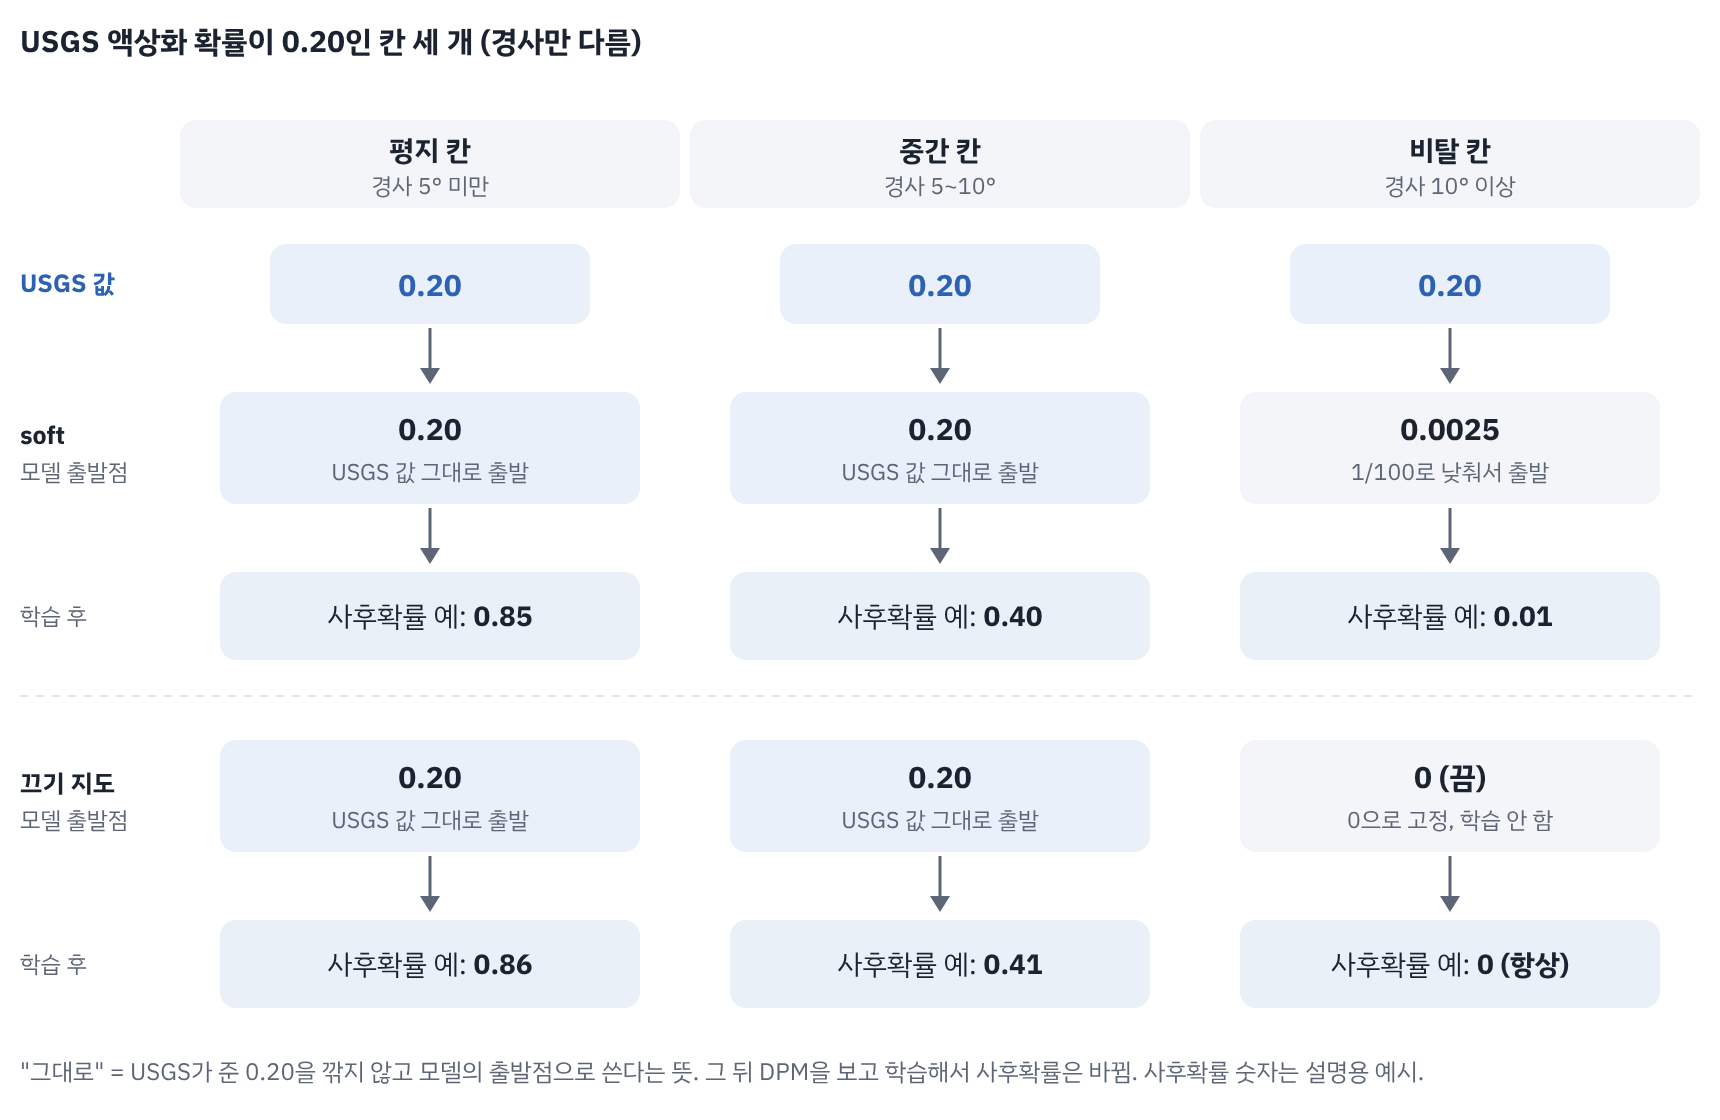
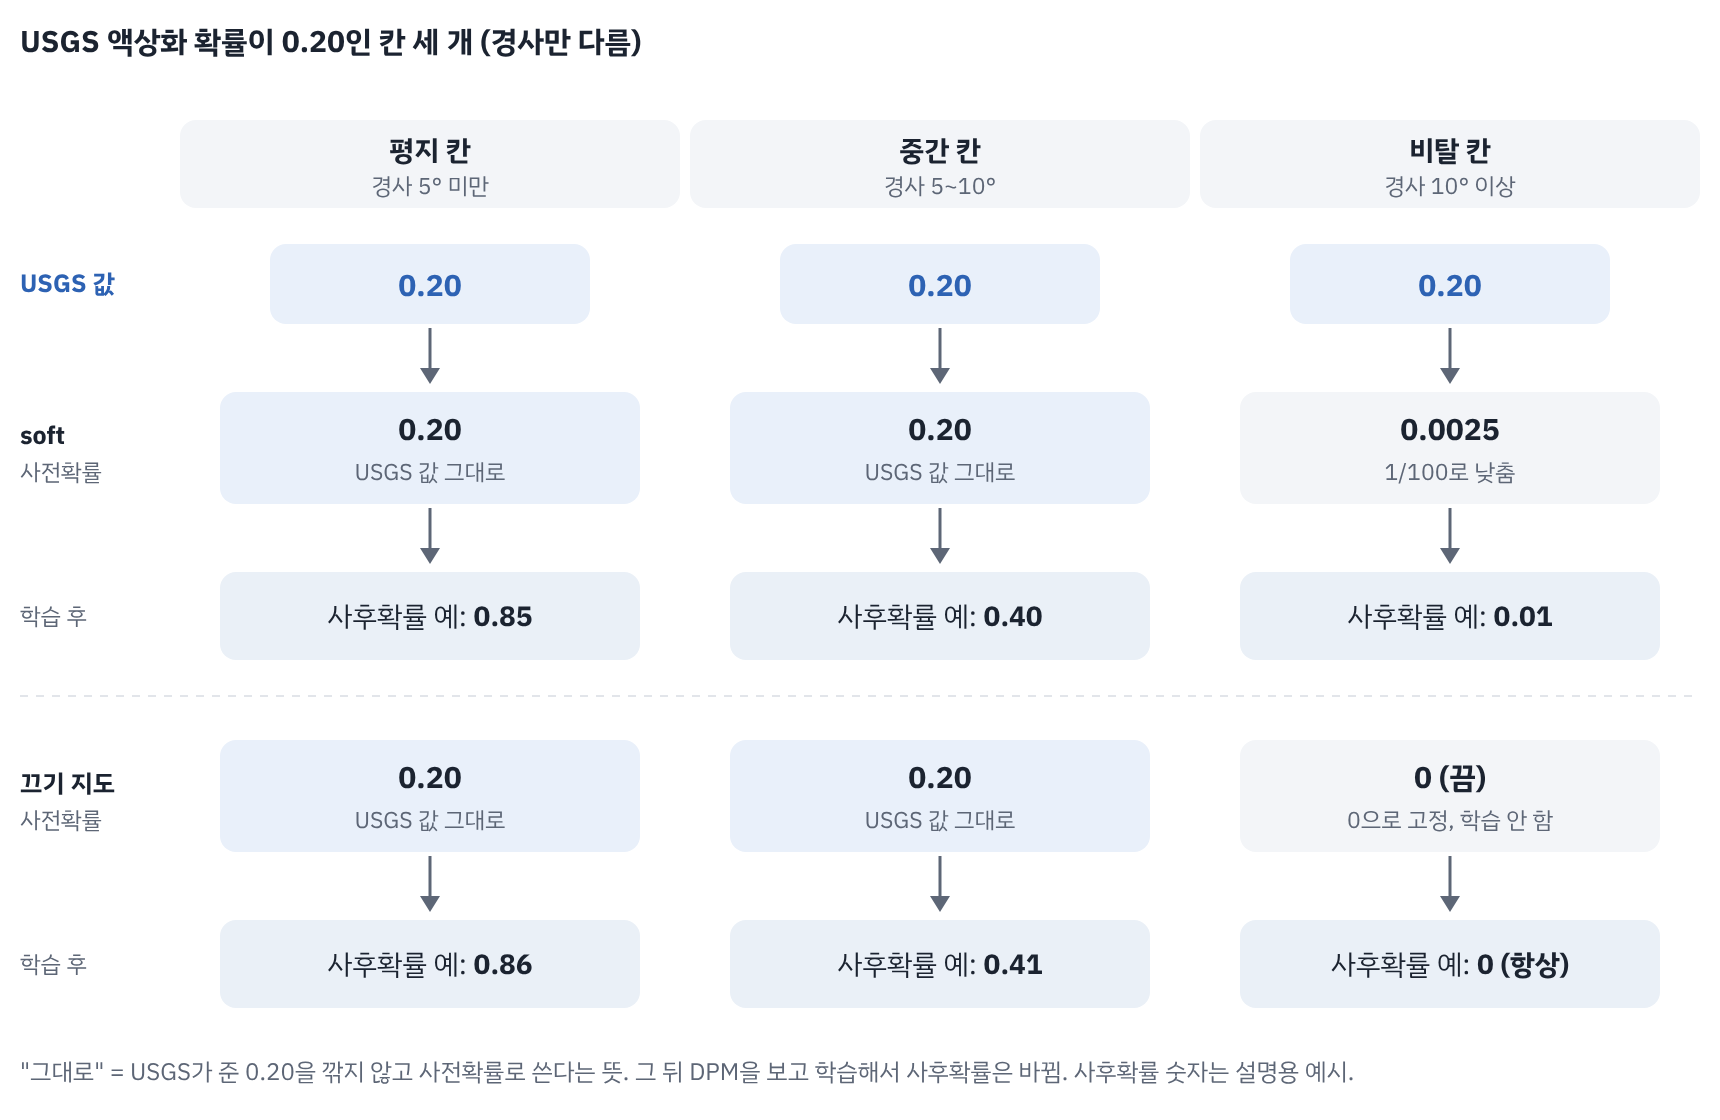
인수인계 2편: soft 그림의 '출발점'을 '사전확률'로 정정 (soft는 사전분포 항에만 들어감)
Claude-Session: https://claude.ai/code/session_01RSDAoNt6NumBeFTrTGDA7v

diff --git a/docs/html/11_인수인계_2_칸단위.html b/docs/html/11_인수인계_2_칸단위.html
@@ -259,34 +259,34 @@ svg text{font-family:var(--sans)}
     <tr><td rowspan="2"><b>끄기 지도</b><br><span class="meta">LOCALU</span></td><td><span class="tag t-ls">산사태</span></td><td class="off">0으로 끔</td><td class="keep">그대로</td><td class="keep">그대로</td></tr>
     <tr><td><span class="tag t-lq">액상화</span></td><td class="keep">그대로</td><td class="keep">그대로</td><td class="off">0으로 끔</td></tr>
   </table></div>
-  <figure><svg viewBox="0 0 860 560" width="100%" role="img" aria-label="USGS 액상화 확률 0.20인 칸이 경사에 따라 soft와 끄기 지도에서 어떻게 출발점이 정해지고 사후확률이 되는지" style="max-width:860px;height:auto"><text x="10" y="26" font-size="15" font-weight="700" class="c-fg">USGS 액상화 확률이 0.20인 칸 세 개 (경사만 다름)</text><text x="10" y="146" font-size="12.5" font-weight="700" class="c-lq">USGS 값</text><text x="10" y="222" font-size="12.5" font-weight="700" class="c-fg">soft</text><text x="10" y="240" font-size="11.5" class="c-mu">모델 출발점</text><text x="10" y="312" font-size="11.5" class="c-mu">학습 후</text><line x1="10" x2="850" y1="348" y2="348" class="s-line" stroke-dasharray="4 4"/><text x="10" y="396" font-size="12.5" font-weight="700" class="c-fg">끄기 지도</text><text x="10" y="414" font-size="11.5" class="c-mu">모델 출발점</text><text x="10" y="486" font-size="11.5" class="c-mu">학습 후</text>
+  <figure><svg viewBox="0 0 860 560" width="100%" role="img" aria-label="USGS 액상화 확률 0.20인 칸이 경사에 따라 soft와 끄기 지도에서 어떻게 출발점이 정해지고 사후확률이 되는지" style="max-width:860px;height:auto"><text x="10" y="26" font-size="15" font-weight="700" class="c-fg">USGS 액상화 확률이 0.20인 칸 세 개 (경사만 다름)</text><text x="10" y="146" font-size="12.5" font-weight="700" class="c-lq">USGS 값</text><text x="10" y="222" font-size="12.5" font-weight="700" class="c-fg">soft</text><text x="10" y="240" font-size="11.5" class="c-mu">사전확률</text><text x="10" y="312" font-size="11.5" class="c-mu">학습 후</text><line x1="10" x2="850" y1="348" y2="348" class="s-line" stroke-dasharray="4 4"/><text x="10" y="396" font-size="12.5" font-weight="700" class="c-fg">끄기 지도</text><text x="10" y="414" font-size="11.5" class="c-mu">사전확률</text><text x="10" y="486" font-size="11.5" class="c-mu">학습 후</text>
 <rect x="90" y="60" width="250" height="44" rx="8" class="c-soft"/><text x="215" y="80" text-anchor="middle" font-size="14" font-weight="700" class="c-fg">평지 칸</text><text x="215" y="97" text-anchor="middle" font-size="11.5" class="c-mu">경사 5° 미만</text>
 <rect x="135" y="122" width="160" height="40" rx="8" class="c-lqbg"/><text x="215" y="148" text-anchor="middle" font-size="15" font-weight="700" class="c-lq">0.20</text>
 <line x1="215" y1="164" x2="215" y2="186" class="s-mu" stroke-width="1.5"/><path d="M210,184 L215,192 L220,184 z" class="c-mu"/>
-<rect x="110" y="196" width="210" height="56" rx="8" class="c-lqbg"/><text x="215" y="220" text-anchor="middle" font-size="15" font-weight="700" class="c-fg">0.20</text><text x="215" y="240" text-anchor="middle" font-size="11.5" class="c-mu">USGS 값 그대로 출발</text>
+<rect x="110" y="196" width="210" height="56" rx="8" class="c-lqbg"/><text x="215" y="220" text-anchor="middle" font-size="15" font-weight="700" class="c-fg">0.20</text><text x="215" y="240" text-anchor="middle" font-size="11.5" class="c-mu">USGS 값 그대로</text>
 <line x1="215" y1="254" x2="215" y2="276" class="s-mu" stroke-width="1.5"/><path d="M210,274 L215,282 L220,274 z" class="c-mu"/>
 <rect x="110" y="286" width="210" height="44" rx="8" class="c-tint"/><text x="215" y="313" text-anchor="middle" font-size="14" class="c-fg">사후확률 예: <tspan font-weight="700">0.85</tspan></text>
-<rect x="110" y="370" width="210" height="56" rx="8" class="c-lqbg"/><text x="215" y="394" text-anchor="middle" font-size="15" font-weight="700" class="c-fg">0.20</text><text x="215" y="414" text-anchor="middle" font-size="11.5" class="c-mu">USGS 값 그대로 출발</text>
+<rect x="110" y="370" width="210" height="56" rx="8" class="c-lqbg"/><text x="215" y="394" text-anchor="middle" font-size="15" font-weight="700" class="c-fg">0.20</text><text x="215" y="414" text-anchor="middle" font-size="11.5" class="c-mu">USGS 값 그대로</text>
 <line x1="215" y1="428" x2="215" y2="450" class="s-mu" stroke-width="1.5"/><path d="M210,448 L215,456 L220,448 z" class="c-mu"/>
 <rect x="110" y="460" width="210" height="44" rx="8" class="c-tint"/><text x="215" y="487" text-anchor="middle" font-size="14" class="c-fg">사후확률 예: <tspan font-weight="700">0.86</tspan></text>
 <rect x="345" y="60" width="250" height="44" rx="8" class="c-soft"/><text x="470" y="80" text-anchor="middle" font-size="14" font-weight="700" class="c-fg">중간 칸</text><text x="470" y="97" text-anchor="middle" font-size="11.5" class="c-mu">경사 5~10°</text>
 <rect x="390" y="122" width="160" height="40" rx="8" class="c-lqbg"/><text x="470" y="148" text-anchor="middle" font-size="15" font-weight="700" class="c-lq">0.20</text>
 <line x1="470" y1="164" x2="470" y2="186" class="s-mu" stroke-width="1.5"/><path d="M465,184 L470,192 L475,184 z" class="c-mu"/>
-<rect x="365" y="196" width="210" height="56" rx="8" class="c-lqbg"/><text x="470" y="220" text-anchor="middle" font-size="15" font-weight="700" class="c-fg">0.20</text><text x="470" y="240" text-anchor="middle" font-size="11.5" class="c-mu">USGS 값 그대로 출발</text>
+<rect x="365" y="196" width="210" height="56" rx="8" class="c-lqbg"/><text x="470" y="220" text-anchor="middle" font-size="15" font-weight="700" class="c-fg">0.20</text><text x="470" y="240" text-anchor="middle" font-size="11.5" class="c-mu">USGS 값 그대로</text>
 <line x1="470" y1="254" x2="470" y2="276" class="s-mu" stroke-width="1.5"/><path d="M465,274 L470,282 L475,274 z" class="c-mu"/>
 <rect x="365" y="286" width="210" height="44" rx="8" class="c-tint"/><text x="470" y="313" text-anchor="middle" font-size="14" class="c-fg">사후확률 예: <tspan font-weight="700">0.40</tspan></text>
-<rect x="365" y="370" width="210" height="56" rx="8" class="c-lqbg"/><text x="470" y="394" text-anchor="middle" font-size="15" font-weight="700" class="c-fg">0.20</text><text x="470" y="414" text-anchor="middle" font-size="11.5" class="c-mu">USGS 값 그대로 출발</text>
+<rect x="365" y="370" width="210" height="56" rx="8" class="c-lqbg"/><text x="470" y="394" text-anchor="middle" font-size="15" font-weight="700" class="c-fg">0.20</text><text x="470" y="414" text-anchor="middle" font-size="11.5" class="c-mu">USGS 값 그대로</text>
 <line x1="470" y1="428" x2="470" y2="450" class="s-mu" stroke-width="1.5"/><path d="M465,448 L470,456 L475,448 z" class="c-mu"/>
 <rect x="365" y="460" width="210" height="44" rx="8" class="c-tint"/><text x="470" y="487" text-anchor="middle" font-size="14" class="c-fg">사후확률 예: <tspan font-weight="700">0.41</tspan></text>
 <rect x="600" y="60" width="250" height="44" rx="8" class="c-soft"/><text x="725" y="80" text-anchor="middle" font-size="14" font-weight="700" class="c-fg">비탈 칸</text><text x="725" y="97" text-anchor="middle" font-size="11.5" class="c-mu">경사 10° 이상</text>
 <rect x="645" y="122" width="160" height="40" rx="8" class="c-lqbg"/><text x="725" y="148" text-anchor="middle" font-size="15" font-weight="700" class="c-lq">0.20</text>
 <line x1="725" y1="164" x2="725" y2="186" class="s-mu" stroke-width="1.5"/><path d="M720,184 L725,192 L730,184 z" class="c-mu"/>
-<rect x="620" y="196" width="210" height="56" rx="8" class="c-soft"/><text x="725" y="220" text-anchor="middle" font-size="15" font-weight="700" class="c-fg">0.0025</text><text x="725" y="240" text-anchor="middle" font-size="11.5" class="c-mu">1/100로 낮춰서 출발</text>
+<rect x="620" y="196" width="210" height="56" rx="8" class="c-soft"/><text x="725" y="220" text-anchor="middle" font-size="15" font-weight="700" class="c-fg">0.0025</text><text x="725" y="240" text-anchor="middle" font-size="11.5" class="c-mu">1/100로 낮춤</text>
 <line x1="725" y1="254" x2="725" y2="276" class="s-mu" stroke-width="1.5"/><path d="M720,274 L725,282 L730,274 z" class="c-mu"/>
 <rect x="620" y="286" width="210" height="44" rx="8" class="c-tint"/><text x="725" y="313" text-anchor="middle" font-size="14" class="c-fg">사후확률 예: <tspan font-weight="700">0.01</tspan></text>
 <rect x="620" y="370" width="210" height="56" rx="8" class="c-soft"/><text x="725" y="394" text-anchor="middle" font-size="15" font-weight="700" class="c-fg">0 (끔)</text><text x="725" y="414" text-anchor="middle" font-size="11.5" class="c-mu">0으로 고정, 학습 안 함</text>
 <line x1="725" y1="428" x2="725" y2="450" class="s-mu" stroke-width="1.5"/><path d="M720,448 L725,456 L730,448 z" class="c-mu"/>
-<rect x="620" y="460" width="210" height="44" rx="8" class="c-tint"/><text x="725" y="487" text-anchor="middle" font-size="14" class="c-fg">사후확률 예: <tspan font-weight="700">0 (항상)</tspan></text><text x="10" y="540" font-size="12" class="c-mu">"그대로" = USGS가 준 0.20을 깎지 않고 모델의 출발점으로 쓴다는 뜻. 그 뒤 DPM을 보고 학습해서 사후확률은 바뀜. 사후확률 숫자는 설명용 예시.</text></svg><figcaption>표의 "그대로" = USGS가 준 사전확률을 깎지도 끄지도 않고 모델의 출발점으로 쓴다는 뜻. 산사태도 같은 방식으로, 평지 칸만 낮추거나 끕니다.</figcaption></figure>
+<rect x="620" y="460" width="210" height="44" rx="8" class="c-tint"/><text x="725" y="487" text-anchor="middle" font-size="14" class="c-fg">사후확률 예: <tspan font-weight="700">0 (항상)</tspan></text><text x="10" y="540" font-size="12" class="c-mu">"그대로" = USGS가 준 0.20을 깎지 않고 사전확률로 쓴다는 뜻. 그 뒤 DPM을 보고 학습해서 사후확률은 바뀜. 사후확률 숫자는 설명용 예시.</text></svg><figcaption>표의 "그대로" = USGS가 준 사전확률을 깎지도 끄지도 않고 그대로 쓴다는 뜻. 산사태도 같은 방식으로, 평지 칸만 낮추거나 끕니다.</figcaption></figure>
   <ul>
     <li><b>soft</b>: 칸은 비율이 0 아니면 1이라, 시정촌의 log(비율)을 그대로 옮기면 "1/100로 낮춤(로짓에 log 0.01 = −4.6을 더함)" 아니면 "그대로"가 됩니다. 사전확률을 낮출 뿐 0으로 고정하지는 않아서, DPM이 아주 크면 다시 올라갈 수 있습니다.</li>
     <li><b>끄기 지도</b>: 원 논문의 LOCAL.mat처럼 경사로 만든 지도로 사후확률을 0으로 고정합니다. 되돌릴 수 없어서 확실한 곳만 끕니다.</li>
